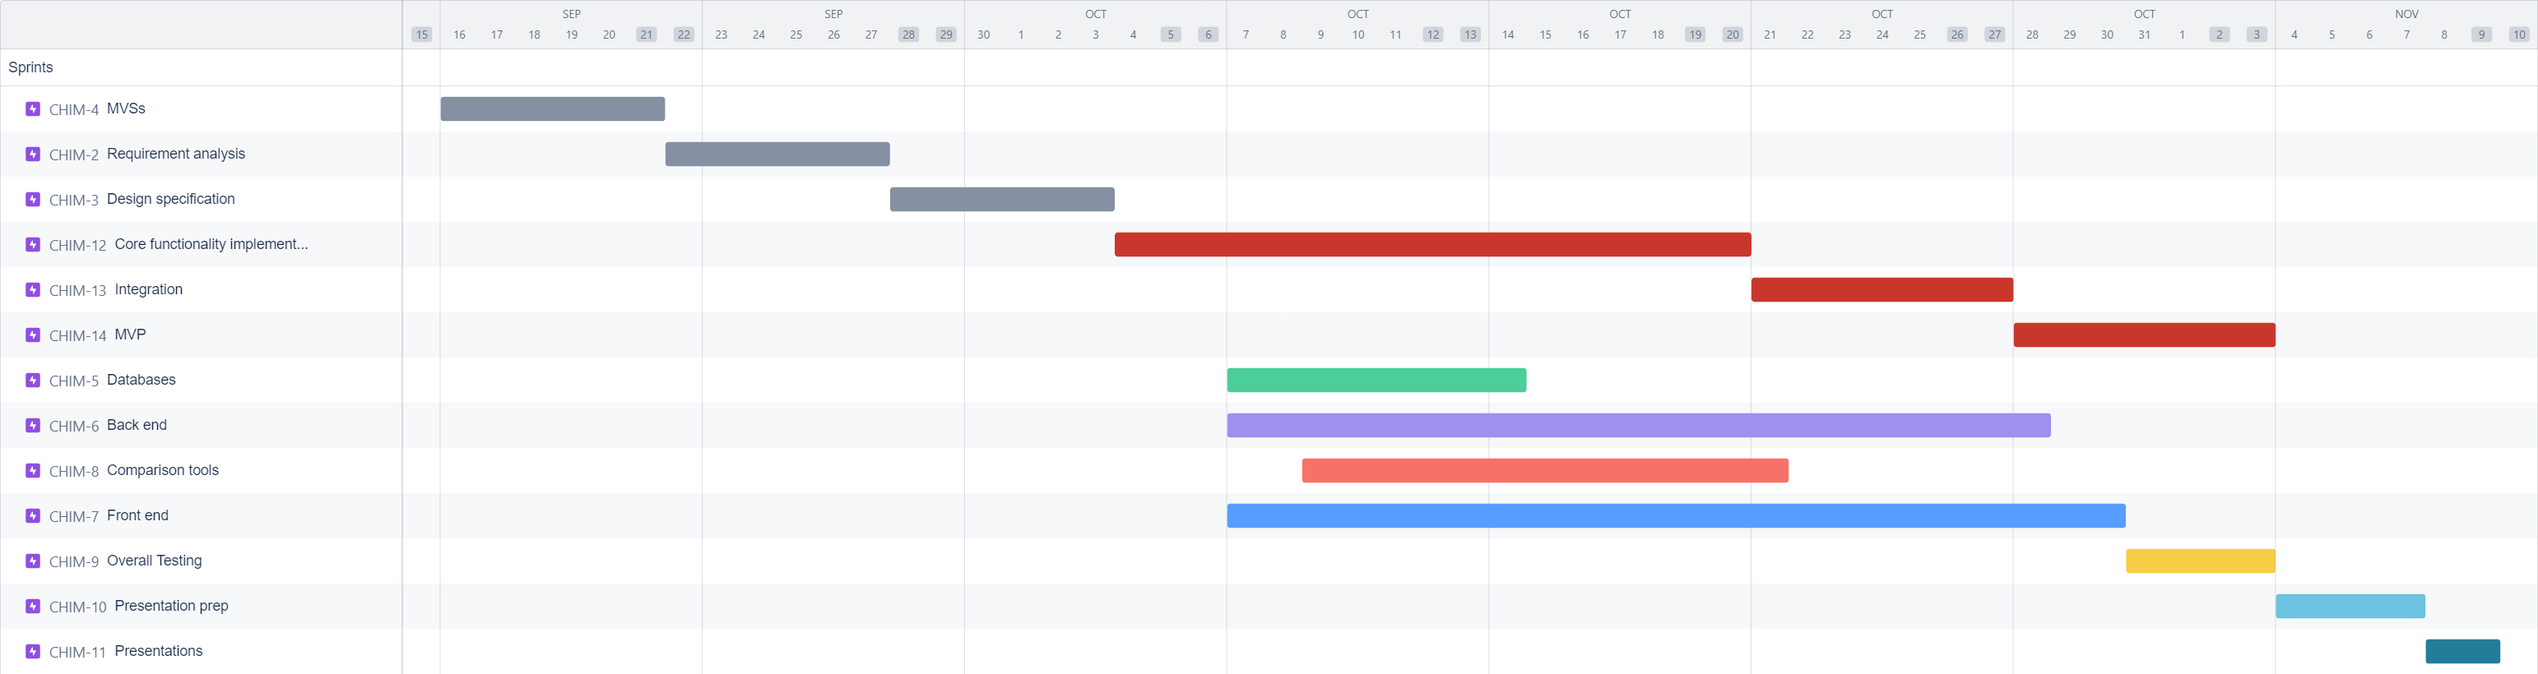
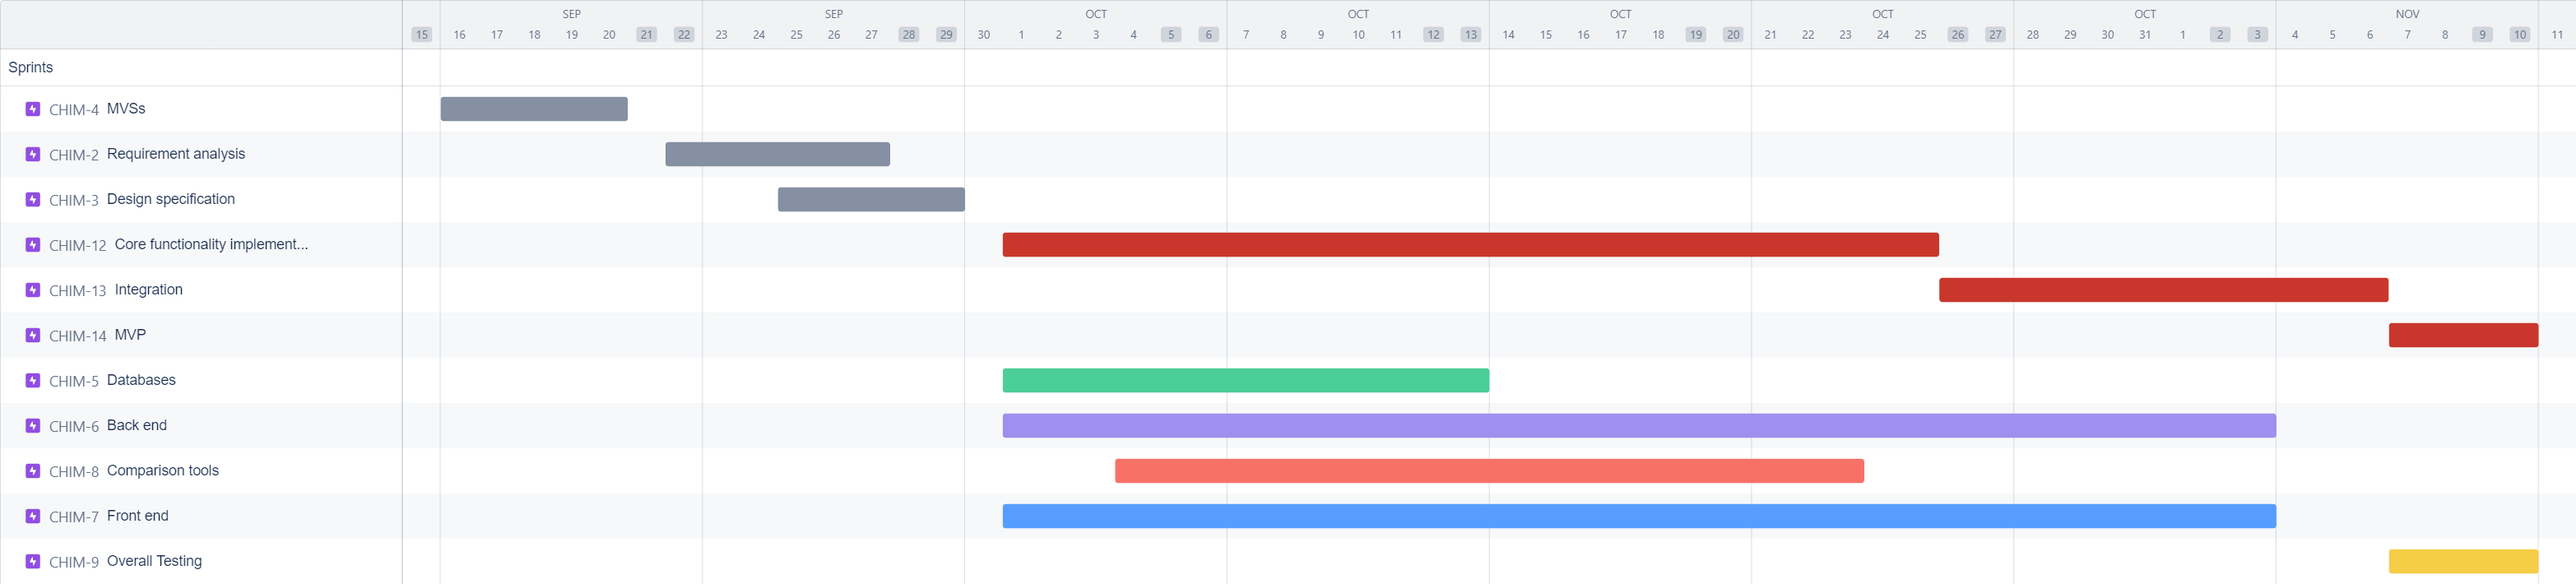
Time Updated

diff --git a/deliverables/sdp.md b/deliverables/sdp.md
@@ -39,34 +39,30 @@ Also, team members are expected to respond to discord messages within 2 hours du
 
 ### MVSs
 
-- Date: End of week 5 (09/21/24)
+- Date: End of week 4 (09/20/24)
 
 ### Requirement Specification
 
-- Date: End of week 6 (09/27/24)
+- Date: End of week 5 (09/27/24)
 
 ### Design Specification
 
-- Date: End of week 7 (10/03/24)
+- Date: End of week 5 (09/29/24)
 
 ### Milestones (i.e., "Checkins")
 
 Milestone 1: Requirements and Design Completion
-- Date: End of week 7 (10/03/24)
+- Date: End of week 5 (09/29/24)
 - Description: Complete the specification planning and upload documents.
 
 Milestone 2: Core Functionality Implemented
-- Date: End of Week 9 (10/20/24)
+- Date: End of Week 9 (10/25/24)
 - Description: Initial implementation of core functionalities like backend APIs and basic front-end setup.
 
 Milestone 3: Integration and Testing
-- Date: End of Week 11 (11/03/24)
+- Date: End of Week 11 (11/10/24)
 - Description: Complete integration of all system components and begin comprehensive testing, including bug fixing.
 
 Milestone 4: Final MVP Version
-- Date: End of Week 11 (11/03/24)
+- Date: End of Week 11 (11/10/24)
 - Description: Delivery of the Minimum Viable Product (MVP) with core features fully implemented, integrated, and tested.
-
-Milestone 5: Presentation Prep
-- Date: Week 12 (11/07/24)
-- Description: Project retrospective and preparation for final presentations.
